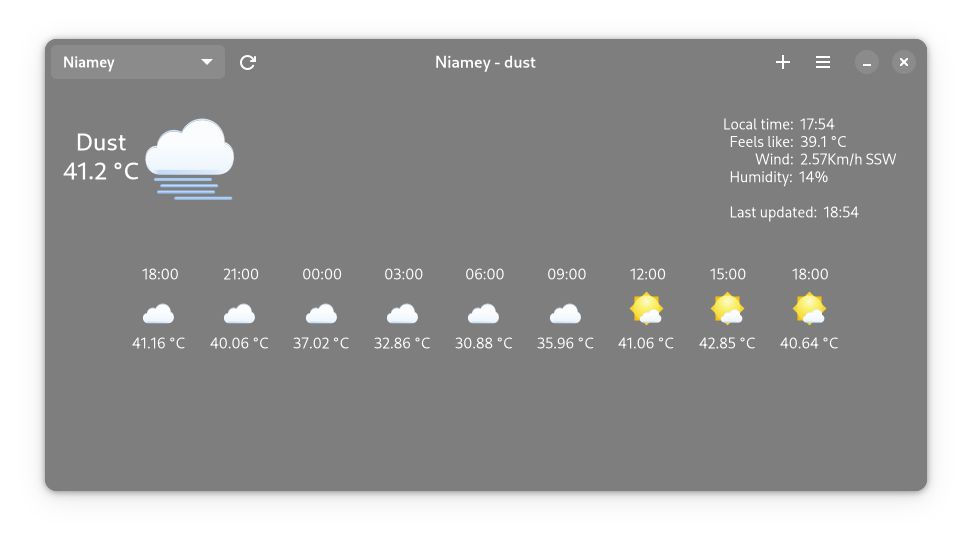
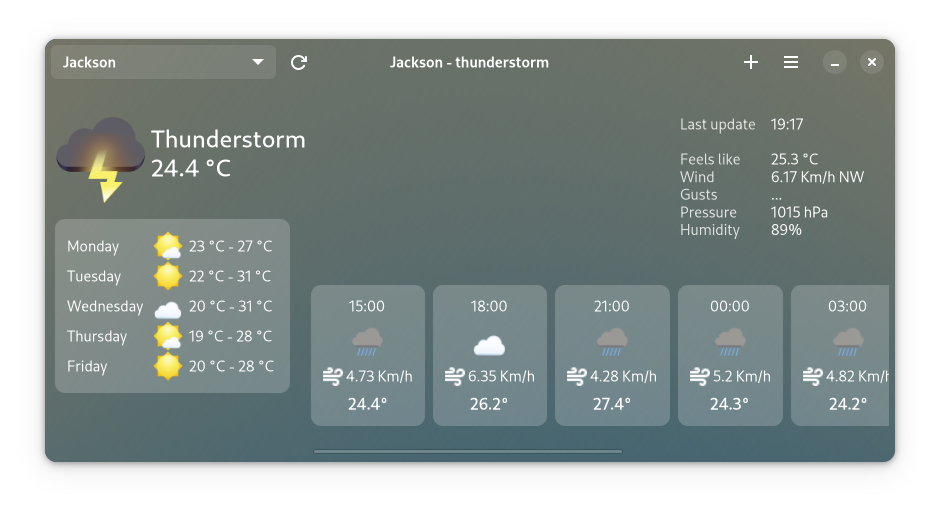
updated screenshots and thunderstorm background

diff --git a/data/style.css b/data/style.css
@@ -53,9 +53,9 @@
 
 } .storm{
 
-    background: linear-gradient(127deg, alpha(rgba(108,123,152,1), 1), alpha(rgba(92,92,92,1), 1) 100%),
-    linear-gradient(217deg, alpha(rgba(108,123,152,1), 1), alpha(rgba(92,92,92,1), 1) 100%),
-    linear-gradient(336deg, alpha(rgba(108,123,152,1), 1), alpha(rgba(92,92,92,1), 1) 100%);
+    background: linear-gradient(127deg, alpha(rgb(117, 117, 102), 1), alpha(rgb(134, 137, 154), 0) 100%),
+    linear-gradient(217deg, alpha(rgb(117, 117, 102), 1), alpha(rgb(14, 83, 126), 1) 100%),
+    linear-gradient(336deg, alpha(rgb(117, 117, 102), 1), alpha(rgb(14, 83, 126), 1) 100%);
 
 } .snow{
 

diff --git a/Forecast/WttrInfo.py b/Forecast/WttrInfo.py
@@ -133,7 +133,7 @@ class main_page(Gtk.Box):
         self.next_hours_scroll.set_valign(Gtk.Align.END)
         self.next_hours_scroll.set_min_content_height(200)
         
-        self.inner_right_box.append(get_info(meteo, False))
+        self.inner_right_box.append(get_info(meteo))
         self.inner_right_box.append(self.next_hours_scroll)
 
         self.right_box.append(self.inner_right_box)
@@ -172,50 +172,50 @@ class main_page(Gtk.Box):
         global meteo
         global lat
         global lon
-        
         global last_refresh
 
         current_time = time.time()
         
-        if current_time - last_refresh >= 60:
-            last_refresh = current_time
-                
-            if change_units == 'True':
-                global degrees_unit
-                global speed_unit
-                global units
+        if change_units == 'True':
+            global degrees_unit
+            global speed_unit
+            global units
 
-                raw_units = settings.get_string('units')
-                degrees_unit = raw_units[raw_units.find(",")+1:raw_units.find("-")]
-                speed_unit   = raw_units[raw_units.find("-")+1:]
-                units = raw_units.split(' ')[0].lower()
+            raw_units = settings.get_string('units')
+            degrees_unit = raw_units[raw_units.find(",")+1:raw_units.find("-")]
+            speed_unit   = raw_units[raw_units.find("-")+1:]
+            units = raw_units.split(' ')[0].lower()
 
+        # -- checks if new city coords are being added to list -- #
+        if lati == None:
+            if change_units:
+                meteo = get_wttr(lat, lon) # requests newer data to apis
             else:
-                # -- checks if new city coords are being added to list -- #
-                if lati == None:
+                if current_time - last_refresh >= 60:
+                    last_refresh = current_time
                     meteo = get_wttr(lat, lon) # requests newer data to apis
-
-                # -- if new city is being added -- #
                 else:
-                    lat = lati  # updates global variables to new ones
-                    lon = longi #
+                    wait_toast = Adw.Toast.new('You must wait at least one minute to refresh')
+                    main_window.toast_overlay.add_toast(wait_toast)
+        # -- if new city is being added -- #
+        else: 
+            lat = lati  # updates global variables to new ones
+            lon = longi #
 
-                    meteo = get_wttr(lati, longi) # requests new city weather
+            meteo = get_wttr(lati, longi) # requests new city weather
 
-                    # main_window.header_bar.set_css_classes(['title'])
-                    global title
-                    title = Gtk.Label(label=meteo["name"] +" - "+meteo["weather"][0]['description']).set_css_classes(['title'])
+            # main_window.header_bar.set_css_classes(['title'])
+            global title 
+            title = Gtk.Label(label=meteo["name"] +" - "+meteo["weather"][0]['description']).set_css_classes(['title'])
 
-                    main_window.header_bar.set_title_widget()
+            main_window.header_bar.set_title_widget()                         
 
-            get_info(meteo, True) # updates labels to new city weather
-            set_icon(main_window, meteo, False) # updates icon to new city weather
-            if both_update:
-                get_forecast(True)
-        
-        else:
-            wait_toast = Adw.Toast.new('You must wait at least one minute to refresh')
-            main_window.toast_overlay.add_toast(wait_toast)
+
+        get_info(meteo) # updates labels to new city weather
+        set_icon(main_window, meteo, False) # updates icon to new city weather
+        if both_update:
+            get_forecast(True)
+
 
     # ---- box used to fill blanc spaces ---- #
     def wttr_fill(self):
@@ -285,7 +285,7 @@ def wind_dir(angle):
         return directions[index]
 
 # ----- gets all the info for the bottom label ----- #
-def get_info(meteo, refresh):
+def get_info(meteo):
     
     global conditions_box
     global text_label
@@ -643,16 +643,13 @@ def forecast_icon(icon, size, frcst):
 # ---- function to translate id to weather description ---- #
 def get_wttr_description(code):
     switcher = {
-        200: ('Thunderstorm with Light Rain'),
-        201: ('Thunderstorm with Rain'),
-        202: ('Thunderstorm with Heavy Rain'),
+        230 and 200: ('Thunderstorm with Light Rain'),
+        231 and 201: ('Thunderstorm with Rain'),
+        232 and 202: ('Thunderstorm with Heavy Rain'),
         210: ('Light Thunderstorm'),
         211: ('Thunderstorm'),
         212: ('Heavy Thunderstorm'),
         221: ('Ragged Thunderstorm'),
-        230: ('Thunderstorm with Light Drizzle'),
-        231: ('Thunderstorm with Drizzle'),
-        232: ('Thunderstorm with Heavy Drizzle'),
         300: ('Light Drizzle'),
         301: ('Drizzle'),
         302: ('Heavy Drizzle'),

diff --git a/Forecast/App.py b/Forecast/App.py
@@ -5,7 +5,7 @@ import gi
 import os
 gi.require_version('Gtk', '4.0')
 gi.require_version('Adw', '1')
-from gi.repository import Gtk, Adw, Gio, Gdk
+from gi.repository import Gtk, Adw, Gio, Gdk, GObject
 
 toast_overlay = Adw.ToastOverlay.new()
 meteo = None
@@ -155,8 +155,8 @@ class search_page(Gtk.Box):
     def __init__(self, button, window, first, *args, **kwargs):
         super().__init__(*args, **kwargs)
 
-        self.completion_model = Gtk.ListStore.new([])
-
+        self.completion_model = Gtk.ListStore.new([GObject.TYPE_INT, GObject.TYPE_STRING])
+        
         self.completion = Gtk.EntryCompletion.new()
         self.completion.set_model(model=self.completion_model)
         self.completion.set_text_column(column=1)
